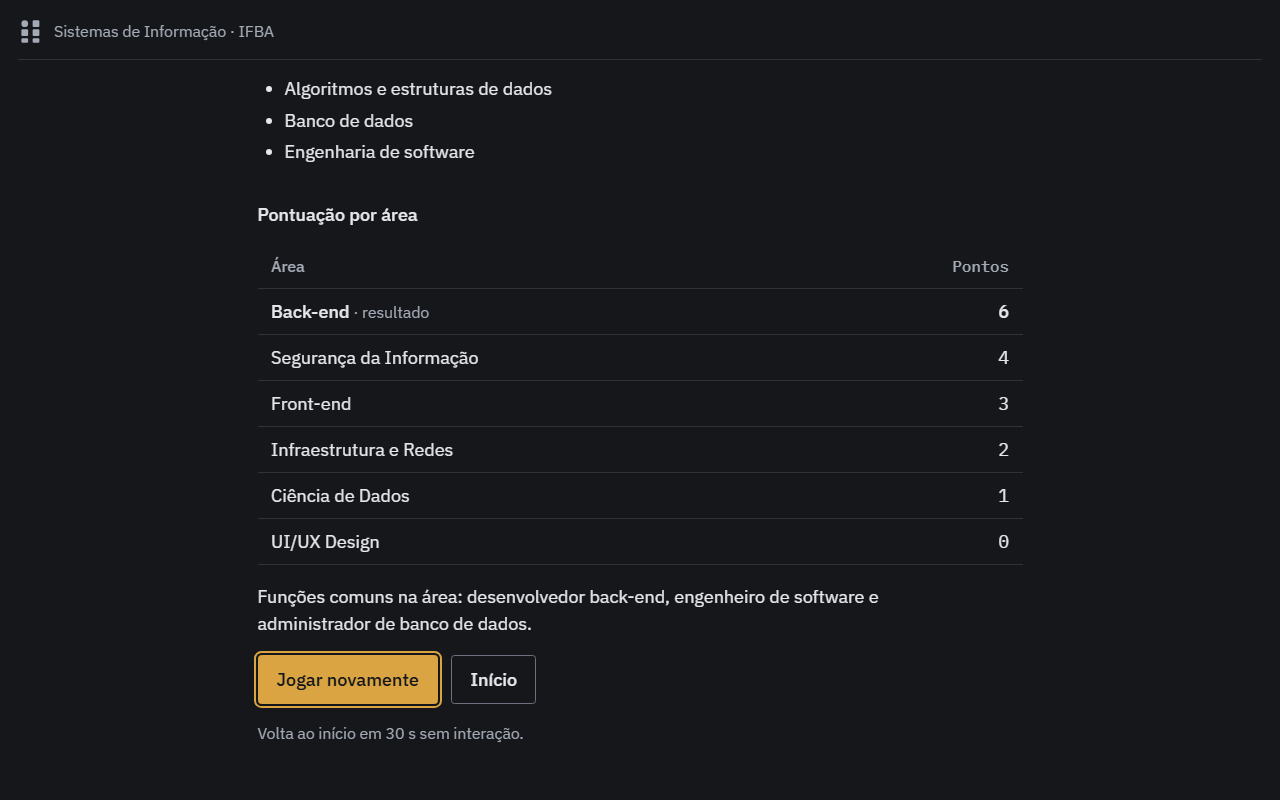
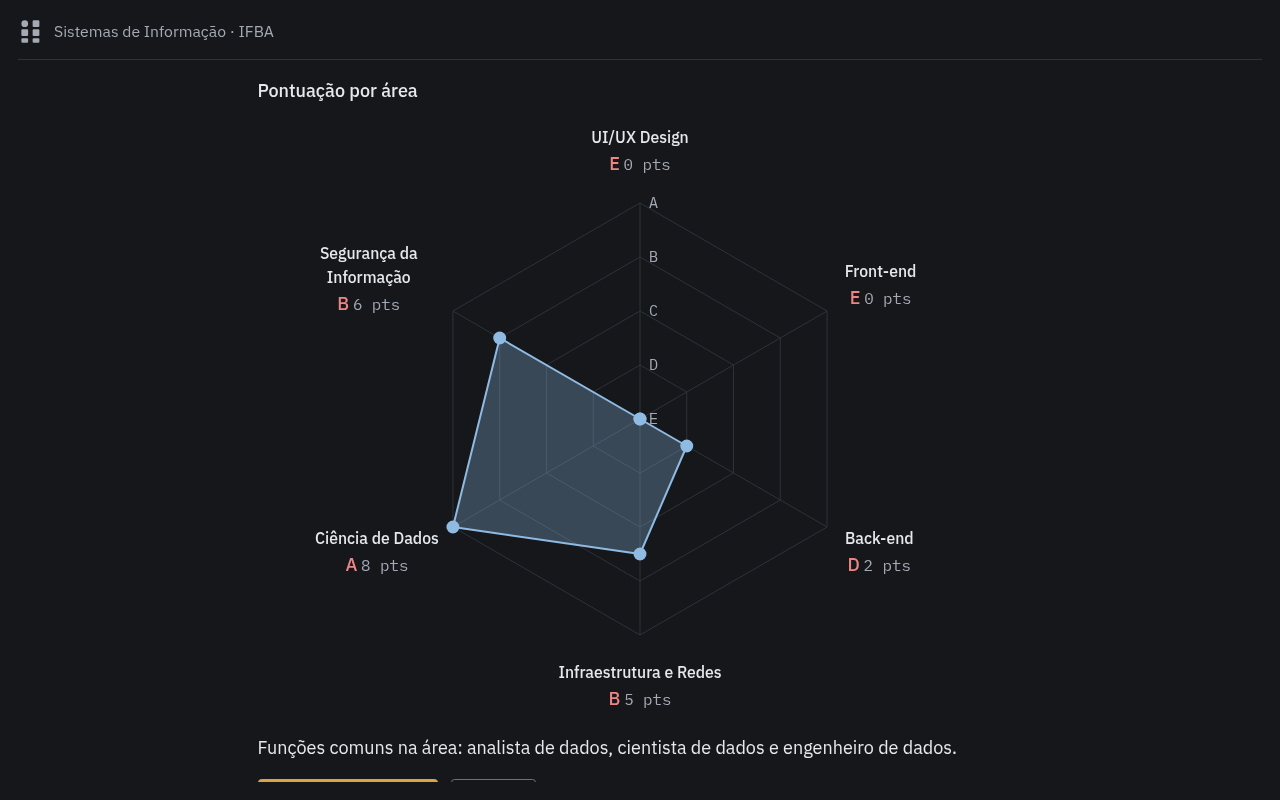
Mostra o resultado do quiz em gráfico de radar
A tabela de pontuação por área virou um radar de 6 vértices com nível
A a E e os pontos de cada área. A área com mais pontos fica no nível A
e as outras, proporcionalmente, até E (nenhum ponto).

- nivelDaArea() no domínio, com teste
- textos em HTML sobre o SVG, para não encolherem no celular
- token --grafico e nota no DESIGN.md
- capturas do resultado atualizadas

diff --git a/quiz-perfil-profissional/www/src/ui/tela-resultado.js b/quiz-perfil-profissional/www/src/ui/tela-resultado.js
@@ -1,9 +1,13 @@
 import { referencias } from "../../compartilhado/dom.js";
 import { mmss } from "../../compartilhado/formato.js";
+import { nivelDaArea } from "../dominio/quiz.js";
+
+const SVG = "http://www.w3.org/2000/svg";
+const AFASTAMENTO_ROTULO = 1.12; // distância dos nomes ao centro, em raios do gráfico
 
 /**
  * Tela de resultado: área com mais pontos, resumo em números,
- * estudos do curso e tabela de pontuação por área.
+ * estudos do curso e gráfico de radar com a pontuação por área.
  */
 export function criarTelaResultado({ elemento, areas, config, aoJogarNovamente, aoInicio }) {
   const ref = referencias(elemento);
@@ -25,34 +29,85 @@ export function criarTelaResultado({ elemento, areas, config, aoJogarNovamente, 
       })
     );
 
-    const linhas = Object.keys(pontuacao)
-      .sort((a, b) => pontuacao[b] - pontuacao[a])
-      .map((chave) => criarLinha(chave, pontuacao[chave], chave === vencedora));
-    ref.tabela.replaceChildren(...linhas);
-
+    desenharRadar(pontuacao);
     mostrarContagem(config.segundosInatividade);
     ref.jogarNovamente.focus();
   }
 
-  function criarLinha(chave, pontos, ehVencedora) {
-    const linha = document.createElement("tr");
-    linha.classList.toggle("vencedora", ehVencedora);
+  /**
+   * Um vértice por área (na ordem de areas.js, do topo em sentido horário).
+   * A área com mais pontos chega ao anel externo (A); zero fica no centro (E).
+   */
+  function desenharRadar(pontuacao) {
+    const chaves = Object.keys(areas);
+    const maximo = Math.max(0, ...chaves.map((chave) => pontuacao[chave] || 0));
+    const raios = chaves.map((chave) => (maximo > 0 ? (pontuacao[chave] || 0) / maximo : 0));
 
-    const nome = document.createElement("td");
-    nome.textContent = areas[chave] ? areas[chave].nome : chave;
-    if (ehVencedora) {
+    const angulo = (i) => (i / chaves.length) * 2 * Math.PI - Math.PI / 2;
+    const ponto = (i, raio) => [raio * Math.cos(angulo(i)), raio * Math.sin(angulo(i))];
+    const contorno = (raioDe) => chaves.map((_, i) => ponto(i, raioDe(i)).map((n) => n.toFixed(4)).join(",")).join(" ");
+
+    const svg = svgEl("svg", { viewBox: "-1 -1 2 2" });
+    for (const faixa of [4, 3, 2, 1]) svg.append(svgEl("polygon", { class: "radar-anel", points: contorno(() => faixa / 4) }));
+    chaves.forEach((_, i) => {
+      const [x, y] = ponto(i, 1);
+      svg.append(svgEl("line", { class: "radar-eixo", x1: 0, y1: 0, x2: x, y2: y }));
+    });
+    svg.append(svgEl("polygon", { class: "radar-forma", points: contorno((i) => raios[i]) }));
+    raios.forEach((raio, i) => {
+      const [x, y] = ponto(i, raio);
+      svg.append(svgEl("circle", { class: "radar-ponto", cx: x, cy: y, r: 0.03 }));
+    });
+
+    // Escala A a E ao lado do eixo de cima
+    const escala = [..."ABCDE"].map((letra, i) => {
       const rotulo = document.createElement("span");
-      rotulo.className = "rotulo-linha";
-      rotulo.textContent = " · resultado";
-      nome.appendChild(rotulo);
-    }
+      rotulo.className = "radar-escala";
+      rotulo.textContent = letra;
+      posicionar(rotulo, 0.04, -(4 - i) / 4, 0, -0.5);
+      return rotulo;
+    });
 
-    const valor = document.createElement("td");
-    valor.className = "numero";
-    valor.textContent = pontos;
+    const rotulos = chaves.map((chave, i) => {
+      const pontos = pontuacao[chave] || 0;
+      const [x, y] = ponto(i, AFASTAMENTO_ROTULO);
+      const cos = Math.cos(angulo(i));
+      const rotulo = document.createElement("div");
+      rotulo.className = "radar-rotulo";
+      rotulo.classList.toggle("lateral", Math.abs(cos) > 0.1);
+      rotulo.innerHTML = '<span class="radar-nome"></span><span><span class="radar-nivel"></span> <span class="radar-pontos"></span></span>';
+      rotulo.querySelector(".radar-nome").textContent = areas[chave].nome;
+      rotulo.querySelector(".radar-nivel").textContent = nivelDaArea(pontos, maximo);
+      rotulo.querySelector(".radar-pontos").textContent = `${pontos} pts`;
+      // o nome "cresce" para fora do gráfico: à direita, à esquerda, acima ou abaixo do vértice
+      posicionar(rotulo, x, y, (cos - 1) / 2, (Math.sin(angulo(i)) - 1) / 2);
+      return rotulo;
+    });
 
-    linha.append(nome, valor);
-    return linha;
+    ref.radar.setAttribute(
+      "aria-label",
+      "Pontuação por área: " +
+        chaves
+          .map((chave) => {
+            const pontos = pontuacao[chave] || 0;
+            return `${areas[chave].nome}, nível ${nivelDaArea(pontos, maximo)}, ${pontos} ${pontos === 1 ? "ponto" : "pontos"}`;
+          })
+          .join("; ")
+    );
+    ref.radar.replaceChildren(svg, ...escala, ...rotulos);
+  }
+
+  /** Coloca o elemento no ponto (x, y) do gráfico (-1 a 1) e o desloca por uma fração do próprio tamanho. */
+  function posicionar(el, x, y, deslocX, deslocY) {
+    el.style.left = `${50 + 50 * x}%`;
+    el.style.top = `${50 + 50 * y}%`;
+    el.style.transform = `translate(${deslocX * 100}%, ${deslocY * 100}%)`;
+  }
+
+  function svgEl(nome, atributos) {
+    const el = document.createElementNS(SVG, nome);
+    for (const [chave, valor] of Object.entries(atributos)) el.setAttribute(chave, valor);
+    return el;
   }
 
   /** Atualiza o aviso "Volta ao início em X s sem interação." */

diff --git a/quiz-perfil-profissional/www/css/app.css b/quiz-perfil-profissional/www/css/app.css
@@ -70,8 +70,35 @@
 
 /* Resultado */
 .lista { padding-left: var(--e-6); display: flex; flex-direction: column; gap: var(--e-1); }
-.tabela tr.vencedora td { font-weight: var(--peso-medio); }
-.tabela .rotulo-linha { color: var(--text-muted); font-weight: var(--peso-normal); font-size: var(--t-apoio); }
+
+/* Gráfico de radar: SVG para as formas, HTML para os textos (não encolhem com o gráfico) */
+.radar { padding: calc(var(--e-12) + var(--e-6)) 0; }
+.radar-plano { position: relative; width: min(60%, 24rem); aspect-ratio: 1; margin: 0 auto; }
+.radar-plano svg { display: block; width: 100%; height: 100%; overflow: visible; }
+.radar-anel, .radar-eixo { fill: none; stroke: var(--border); stroke-width: var(--linha); vector-effect: non-scaling-stroke; }
+.radar-forma {
+  fill: var(--grafico);
+  fill-opacity: 0.3;
+  stroke: var(--grafico);
+  stroke-width: var(--barra-selecao);
+  stroke-linejoin: round;
+  vector-effect: non-scaling-stroke;
+}
+.radar-ponto { fill: var(--grafico); }
+.radar-escala, .radar-rotulo { position: absolute; }
+.radar-escala { font-family: var(--fonte-mono); font-size: var(--t-apoio); line-height: 1; color: var(--text-muted); }
+.radar-rotulo {
+  display: flex;
+  flex-direction: column;
+  align-items: center;
+  width: max-content;
+  text-align: center;
+  font-size: var(--t-apoio);
+}
+.radar-rotulo.lateral { max-width: 33%; } /* cabe no espaço entre o gráfico e a borda, mesmo no celular */
+.radar-nome { font-weight: var(--peso-medio); }
+.radar-nivel { font-size: var(--t-corpo); font-weight: var(--peso-medio); color: var(--danger); }
+.radar-pontos { font-family: var(--fonte-mono); color: var(--text-muted); }
 
 /* Celular: a dica de teclado não se aplica */
 @media (pointer: coarse) and (max-width: 48rem) {

diff --git a/quiz-perfil-profissional/testes/quiz.test.js b/quiz-perfil-profissional/testes/quiz.test.js
@@ -4,7 +4,7 @@
  */
 import { test } from "node:test";
 import assert from "node:assert/strict";
-import { PartidaQuiz, calcularResultado, somarPontos, validarConteudo } from "../www/src/dominio/quiz.js";
+import { PartidaQuiz, calcularResultado, nivelDaArea, somarPontos, validarConteudo } from "../www/src/dominio/quiz.js";
 import { AREAS } from "../www/src/dados/areas.js";
 import { PERGUNTAS } from "../www/src/dados/perguntas.js";
 
@@ -79,4 +79,10 @@ test("validarConteudo aponta área desconhecida e área inalcançável", () => {
   const problemas = validarConteudo(areas, perguntas);
   assert.ok(problemas.some((p) => p.includes('área desconhecida "w"')));
   assert.ok(problemas.some((p) => p.includes('Área "y" nunca recebe pontos')));
+});
+
+test("nível da área vai de A (máximo) a E (zero)", () => {
+  assert.deepEqual([8, 6, 4, 2, 0].map((p) => nivelDaArea(p, 8)), ["A", "B", "C", "D", "E"]);
+  assert.equal(nivelDaArea(3, 8), "C"); // 37,5% arredonda para a faixa do meio
+  assert.equal(nivelDaArea(0, 0), "E"); // todas puladas: nenhuma área pontuou
 });

diff --git a/quiz-perfil-profissional/www/src/dominio/quiz.js b/quiz-perfil-profissional/www/src/dominio/quiz.js
@@ -38,6 +38,14 @@ export function calcularResultado(pontuacao, sortear = Math.random) {
 }
 
 /**
+ * Nível da área no gráfico do resultado, de A (tantos pontos quanto a primeira
+ * colocada) a E (nenhum ponto), em 4 faixas iguais entre 0 e o máximo.
+ */
+export function nivelDaArea(pontos, maximo) {
+  return "EDCBA"[maximo > 0 ? Math.round((Math.max(0, Math.min(pontos, maximo)) / maximo) * 4) : 0];
+}
+
+/**
  * Confere se o conteúdo editável está consistente.
  * Devolve uma lista de problemas (vazia quando está tudo certo).
  */

diff --git a/quiz-perfil-profissional/www/index.html b/quiz-perfil-profissional/www/index.html
@@ -99,10 +99,7 @@
         <ul class="lista leitura" data-ref="estudos"></ul>
 
         <h2 class="subtitulo">Pontuação por área</h2>
-        <table class="tabela">
-          <thead><tr><th scope="col">Área</th><th scope="col" class="numero">Pontos</th></tr></thead>
-          <tbody data-ref="tabela"></tbody>
-        </table>
+        <div class="radar"><div class="radar-plano" role="img" data-ref="radar"></div></div>
 
         <p class="leitura" data-ref="proximoPasso"></p>
         <div class="acoes">

diff --git a/compartilhado/tokens.css b/compartilhado/tokens.css
@@ -17,6 +17,7 @@
   --accent-texto: #15171b;
   --success: #62bd73;   /* matiz do verde institucional dos IFs */
   --danger: #ec8584;    /* matiz do vermelho institucional dos IFs */
+  --grafico: #8fbbe3;   /* forma do gráfico de radar do quiz (mesmo azul da palavra-chave) */
 
   /* Realce de sintaxe (4 cores) */
   --sintaxe-palavra: #8fbbe3;

diff --git a/DESIGN.md b/DESIGN.md
@@ -54,6 +54,7 @@ Line-height 1,5 no texto e 1,6 no código. Largura máxima de leitura de 68ch. S
 | `--accent-texto` | `#15171b` | texto sobre o botão primário | 8,0:1 |
 | `--success` | `#62bd73` | correto (sempre com check e texto) | 7,1:1 |
 | `--danger` | `#ec8584` | incorreto (sempre com x e texto) | 6,5:1 |
+| `--grafico` | `#8fbbe3` | forma do gráfico de radar do quiz | 8,2:1 |
 
 Realce de sintaxe (4 cores, medidas sobre `--surface`): palavra-chave `#8fbbe3` (8,2:1), string `#a9cc8c` (9,2:1), número `#9fd3d0` (10,0:1), comentário `--text-muted` em itálico (7,1:1). Nomes de função ficam na cor do texto.
 
@@ -92,6 +93,7 @@ Português do Brasil, frases curtas e neutras, sem exclamação: "Iniciar", "Con
 ## Conflitos com a lógica existente (mantida a lógica)
 
 - **Quiz sem resposta certa.** É um quiz de perfil: nenhuma alternativa é correta. Em vez de "Correto./Incorreto.", o feedback diz para quais áreas a resposta somou pontos. O resultado mostra a pontuação por área em vez de acertos.
+- **Gráfico de radar no resultado (pedido do curso).** A pontuação por área virou um radar de 6 vértices, com nível A a E em `--danger` e pontos em mono, seguindo a referência aprovada. A forma usa `--grafico` com preenchimento translúcido (cor chapada, sem gradiente). Os textos são HTML posicionado sobre o SVG, para não encolherem com o gráfico no celular.
 - **Tela inicial do quiz.** Não há categorias nem número de questões variável na lógica; o formulário oferece só a escolha do tempo.
 - **Tempo do quiz.** Padrão "15 s por questão" para manter a partida abaixo de 2 minutos no stand; "Sem tempo" fica disponível. Como cada questão tem 15 s, o aviso em texto aparece nos últimos 5 s, e não nos últimos 10.
 - **Tempo do Corrida contra o Bug.** A rodada de 90 s e a pontuação por rapidez são a mecânica do jogo e não foram tornadas opcionais. O tempo fica visível no cabeçalho, sem cores de semáforo, com aviso em texto nos últimos 10 s.

diff --git a/quiz-perfil-profissional/README.md b/quiz-perfil-profissional/README.md
@@ -7,7 +7,7 @@ Quiz de 7 perguntas leves, do dia a dia, que mostra com qual área da tecnologia
 1. Tela inicial com a descrição, a escolha do tempo (15 s por questão ou sem tempo) e o botão **Iniciar**.
 2. 7 perguntas com 4 alternativas. Cada alternativa soma pontos para uma ou mais áreas.
 3. Escolher a alternativa (toque, A a D ou 1 a 4) e tocar em **Confirmar resposta**. Abaixo aparece para quais áreas a resposta somou pontos, e **Próxima questão** segue.
-4. Resultado: a área, a descrição, um resumo em números, 3 coisas estudadas no curso, a pontuação de todas as áreas e as funções comuns na área.
+4. Resultado: a área, a descrição, um resumo em números, 3 coisas estudadas no curso, um gráfico de radar com o nível (A a E) e os pontos de cada área, e as funções comuns na área. A área com mais pontos fica no nível A; as outras, proporcionalmente, até E (nenhum ponto).
 5. **Jogar novamente** ou volta automática ao início após 30 s sem toques.
 
 **Garantia dos 2 minutos:** com tempo (padrão), cada pergunta tem no máximo 15 s, com aviso em texto nos últimos 5 s; se o tempo acabar, ela é pulada sem pontos. A opção "Sem tempo" existe para quem preferir, e a inatividade de 30 s continua valendo. Em empate no primeiro lugar, a área é sorteada entre as empatadas.
@@ -37,7 +37,7 @@ www/
     main.js             raiz de composição: monta as telas e liga tudo
     config.js           ajustes gerais
     dados/              conteúdo editável (áreas e perguntas)
-    dominio/quiz.js     regras: pontuação, resultado, validação do conteúdo
+    dominio/quiz.js     regras: pontuação, resultado, nível A a E, validação do conteúdo
     ui/                 telas (início, pergunta, resultado)
 testes/quiz.test.js     testes das regras (node --test)
 android-personalizado/  MainActivity.java com o modo imersivo
